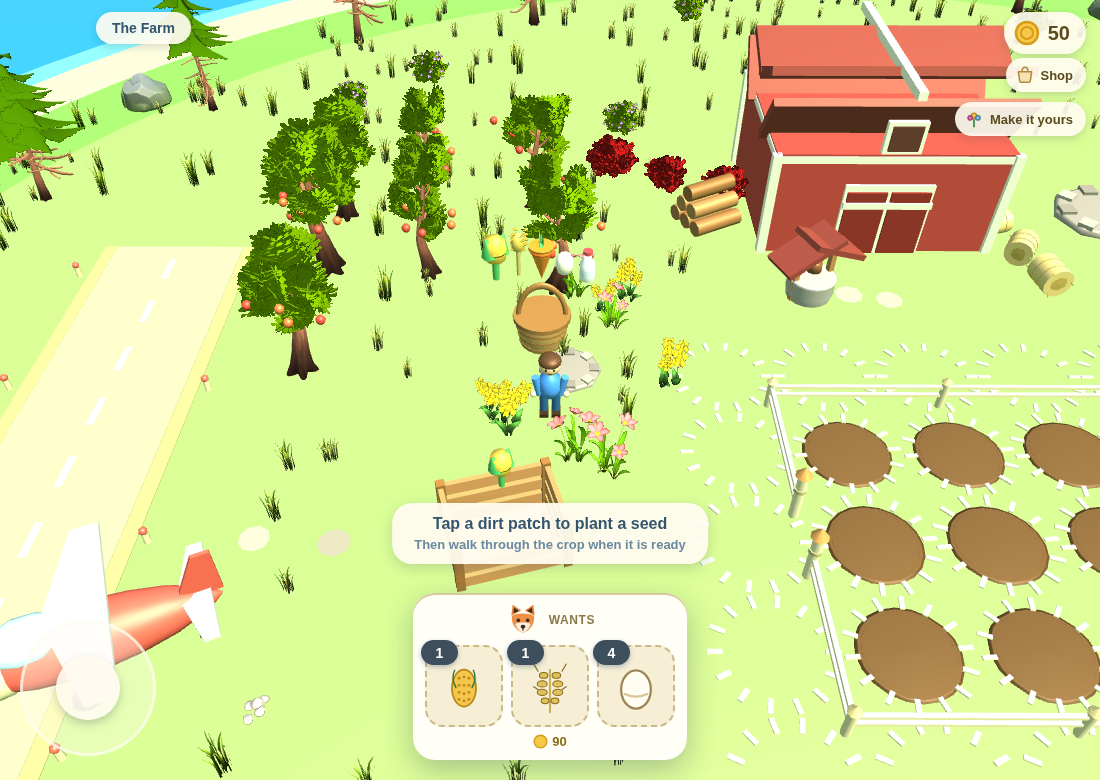
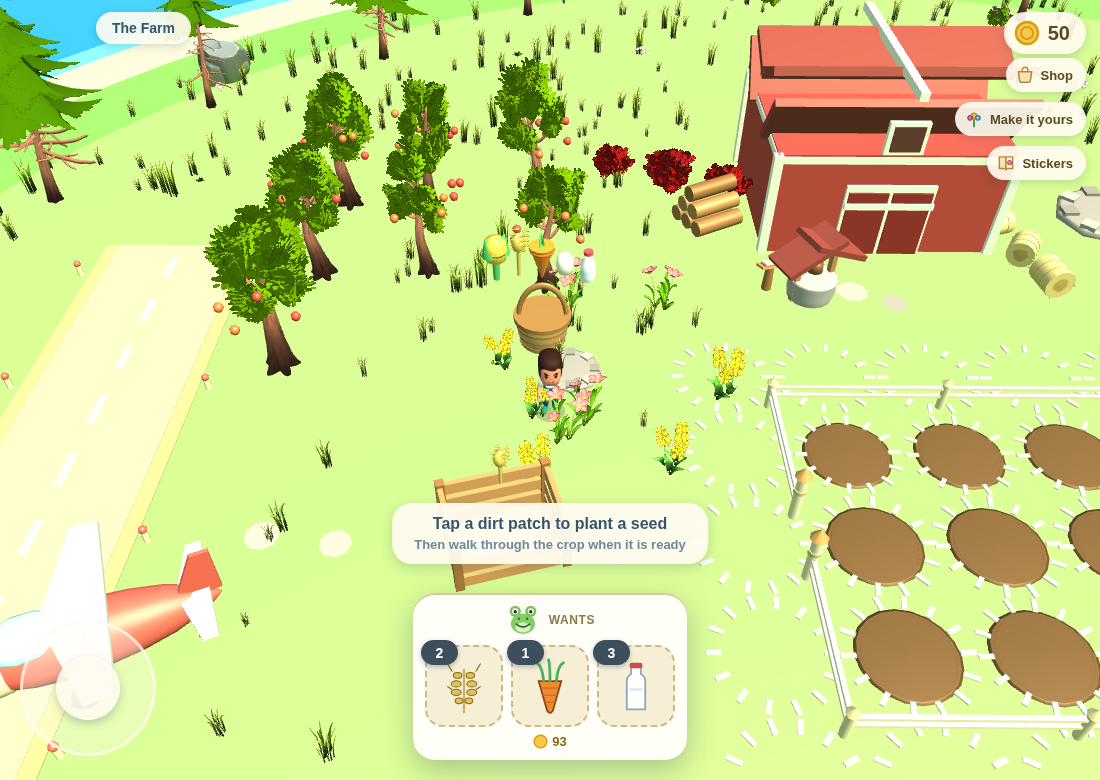
FM9: the girl the farm loads is not the girl skin that arrived
skin-farm-girl.png paints her head and neck a deep maroon while her own arms
and hands in the same atlas stay the kit's peach, so on the farm she read as a
dark red mask on a peach body. skin-farm-girl-v2.png is built from the farm
outfit's own skin with her hair composited over it, so every tone agrees and
the only difference between the two looks is the hair, which was the idea. The
file that arrived is untouched and one path away in KID_LOOKS. Every data-level
check passed with the maroon face; only the screenshot showed it.

Also from the picture gate: the sticker book's dots are a progress bar now
(filled first) rather than a second, noisier copy of the grid.

Claude-Session: https://claude.ai/code/session_01Qid5rb8VC1Bsr9e9rvNPaW

diff --git a/public/skyflyer-farm.html b/public/skyflyer-farm.html
@@ -6148,14 +6148,18 @@ var bookDotsEl=document.getElementById("bookDots");
 var bookCloseEl=document.getElementById("bookClose");
 function renderBook(){
   if(!bookRowEl) return;
-  var pages=stickerPages(), html="", dots="", i, got=0;
+  var pages=stickerPages(), html="", i, got=0;
   for(i=0;i<pages.length;i++){
     var P=pages[i];
     if(P.got) got++;
     html += '<div class="stamp'+(P.got?"":" off")+(BOOK_FRESH[P.id]?" new":"")+
             '" data-id="'+P.id+'">'+P.art+'</div>';
-    dots += '<i class="'+(P.got?"on":"")+'"></i>';
   }
+  // The dots are a PROGRESS BAR, not a second copy of the grid: the filled ones
+  // come first and grow along the row. Interleaved with the empties they read as
+  // noise, which is what the picture gate showed.
+  var dots="";
+  for(i=0;i<pages.length;i++) dots += '<i class="'+(i<got?"on":"")+'"></i>';
   bookRowEl.innerHTML=html;
   if(bookDotsEl) bookDotsEl.innerHTML=dots;
   BOOK_FRESH={};
@@ -6365,8 +6369,15 @@ var KID_CLIP_URLS={ idle:KID_DIR+"anim-idle.glb",
                     pick:KID_DIR+"anim-pickup.glb" };
 // The named slots. "who" is what the kid picked; the file behind it can change
 // without a line of this code changing.
+// THE GIRL SKIN IS NOT THE ONE THAT ARRIVED. The supplied `skin-farm-girl.png`
+// paints her face and neck a deep maroon while her own arms and hands stay the
+// peach the rest of the kit uses, so on the farm she read as a dark red mask
+// with black hair. `skin-farm-girl-v2.png` is built from the farm outfit's own
+// skin with HER HAIR composited over it, so the tones match everywhere and the
+// only difference between the two looks is the hair, which is the whole idea.
+// The original file is still in the repo, untouched, and this is one path away.
 var KID_LOOKS=[
-  { id:"girl", skin:KID_DIR+"skin-farm-girl.png" },
+  { id:"girl", skin:KID_DIR+"skin-farm-girl-v2.png" },
   { id:"boy",  skin:KID_DIR+"skin-farm-a.png" }
 ];
 function kidLookById(id){
@@ -7897,6 +7908,19 @@ window.FARM = {
   pickLook: pickLook,
   openLookPicker: openLookPicker,
   kidPick: kidPick,
+  // A close look at her, for the picture gate: park the camera at her shoulder
+  // and report what the material and the texture actually ARE, because "she is
+  // dark" and "she has no texture yet" look identical in a screenshot.
+  kidCloseUp: function(){
+    camera.position.set(kid.position.x+2.6, 2.4, kid.position.z+4.2);
+    camera.lookAt(kid.position.x, 1.3, kid.position.z);
+    WIDE=false;
+    var m=KID3.mat, t=m&&m.map;
+    return { hasMat:!!m, hasMap:!!t, mapImage:!!(t&&t.image),
+      w:(t&&t.image&&t.image.width)||0, encoding:(t&&t.encoding)||null,
+      color:m?m.color.getHexString():null, skinning:!!(m&&m.skinning),
+      lights:scene.children.filter(function(o){return o.isLight;}).length };
+  },
   customerCast: function(){ return { faces:CUSTOMERS.length, favourites:CUSTOMER_FAV.slice(),
     fav:order?order.fav:null, loved:order?!!order.loved:false }; },
 

diff --git a/README.md b/README.md
@@ -3502,7 +3502,7 @@ and never handle API keys / billing Ã¢ÂÂ surface those to the owner.**
 
 
 ## The Farm gets helpers, a cast, a sticker book and a real girl (September 8 2026)
-**Phase FM, cards FM8 and FM9.** FM7 gave her things to do; FM8 gives her people to do them with and FM9 gives her a face. THE ONE RULE EVERY HELPER OBEYS: they never take the fun part — harvesting, feeding and the crate whoosh stay hers — and every one of them is slower than she is (she runs 6.4, the dog 4.6, the farmhand 3.9, the tractor 4.4). THE FARMHAND (860) waters and does nothing else: he goes for the crop with the LONGEST left to wait, cannot see a ready one at all, tips his can for a second and a half and takes a third off the wait; the check that proves he never steals her fun watches her tower stay the same height while he works. THE TRACTOR (700) is the last of FM5's hollow boxes and is now the biggest thing on the farm: walk up to it, it asks the ONE question the farm already asks (the seed card, titled "Plant the whole field"), then it drives the rows dropping a seed in every empty patch, buying each seed as it goes and PARKING the moment she cannot afford the next. Her tap and its run now share one door, `plantPatch()`. THE DELIVERY TRUCK comes down the FM6 road on its own as a second, bigger customer: it only buys what the farm MAKES (bread, cheese, honey), pays FIVE times against the crate's three, floats what it wants the way the crate does, unloads on exactly the crate's rhythm, and drives off after a minute and a half whether or not it got anything, so it can never be missed or failed. SIX CUSTOMERS NOW (an owl, a frog and a hedgehog join the bear, fox and bunny) and each has ONE favourite: the slot for it wears a heart, it pays double, and the face jumps when it lands. No words anywhere in that. THE STICKER BOOK stands on a post by the barn door: one stamp per item carried, per animal living here and per helper who turned up, twenty-three today, and the ones she has not got are GREY — the one place in this farm where grey belongs, because here it can only mean "not yet". SHOW A GROWN-UP: one tap takes the whole island from above through the FM6 wide camera and puts it in My Stuff next to her drawings, through the gallery that already exists (`/api/save-art`) rather than a new table, plus an automatic one at each size of farm, never taken mid-whoosh. FM9 — A REAL MAIN CHARACTER: the kid was tube limbs and beads for eyes since FM1 and read as a blue blob; she is now Kenney's characterSmall (CC0) with idle, walk, run and a bend-down pick-up, at exactly the 2.5 units the old kid stood at so the stack still lands on her head and nothing else moved, with a soft contact shadow so she does not float. WHAT MAKES HER A PERSON IS ONE PNG — outfit, hair, face and skin in a single 1024 skin, wired as a NAMED SLOT and never a path, so a different outfit or a character per kid is a one-file change. Mike's call was "the kid picks", so the farm asks once with two pictures and remembers. THE CODE-BUILT KID IS STILL THERE, hidden in the same group: abort the model request and the farm opens exactly as it always did, and the harness proves it by aborting the request rather than reading the source. THREE THINGS THIS SESSION FOUND: `window.FARM.coins()` has been returning a DOM node since FM1 (no local `coins` variable, so it resolved to the `<span id="coins">` the browser puts on `window`); a second `customers:` key was silently overriding the new cast reader in the same object literal; and the harness runs at THREE frames a second on the software rasteriser with dt capped at 0.05, so game time there is about a sixth of real time — which is the whole explanation for a set of "flaky" checks, now fixed with a `tractorTick()` lever and waits on state. Character files, licence and loading notes at `public/models/skyflyer/character/` (408KB), registered in the shared asset library as eight `community_sprites` rows via `db/seed-farm-character.sql`, applied and verified in-session. `qa-skyflyer.mjs` 827 green, `qa-farm.mjs` grew FM8 and FM9 blocks, `qa-farm-shot.mjs` takes eight new pictures. Cache-bust `?v=fm7` -> `?v=fm8`. NOTE: two FM5/FM6 checks in `qa-farm.mjs` were already failing on `main` before this session and fail the same way on a clean checkout here; they are harness timing, not the farm, and are left honestly red for the next session.
+**Phase FM, cards FM8 and FM9.** FM7 gave her things to do; FM8 gives her people to do them with and FM9 gives her a face. THE ONE RULE EVERY HELPER OBEYS: they never take the fun part — harvesting, feeding and the crate whoosh stay hers — and every one of them is slower than she is (she runs 6.4, the dog 4.6, the farmhand 3.9, the tractor 4.4). THE FARMHAND (860) waters and does nothing else: he goes for the crop with the LONGEST left to wait, cannot see a ready one at all, tips his can for a second and a half and takes a third off the wait; the check that proves he never steals her fun watches her tower stay the same height while he works. THE TRACTOR (700) is the last of FM5's hollow boxes and is now the biggest thing on the farm: walk up to it, it asks the ONE question the farm already asks (the seed card, titled "Plant the whole field"), then it drives the rows dropping a seed in every empty patch, buying each seed as it goes and PARKING the moment she cannot afford the next. Her tap and its run now share one door, `plantPatch()`. THE DELIVERY TRUCK comes down the FM6 road on its own as a second, bigger customer: it only buys what the farm MAKES (bread, cheese, honey), pays FIVE times against the crate's three, floats what it wants the way the crate does, unloads on exactly the crate's rhythm, and drives off after a minute and a half whether or not it got anything, so it can never be missed or failed. SIX CUSTOMERS NOW (an owl, a frog and a hedgehog join the bear, fox and bunny) and each has ONE favourite: the slot for it wears a heart, it pays double, and the face jumps when it lands. No words anywhere in that. THE STICKER BOOK stands on a post by the barn door: one stamp per item carried, per animal living here and per helper who turned up, twenty-three today, and the ones she has not got are GREY — the one place in this farm where grey belongs, because here it can only mean "not yet". SHOW A GROWN-UP: one tap takes the whole island from above through the FM6 wide camera and puts it in My Stuff next to her drawings, through the gallery that already exists (`/api/save-art`) rather than a new table, plus an automatic one at each size of farm, never taken mid-whoosh. FM9 — A REAL MAIN CHARACTER: the kid was tube limbs and beads for eyes since FM1 and read as a blue blob; she is now Kenney's characterSmall (CC0) with idle, walk, run and a bend-down pick-up, at exactly the 2.5 units the old kid stood at so the stack still lands on her head and nothing else moved, with a soft contact shadow so she does not float. WHAT MAKES HER A PERSON IS ONE PNG — outfit, hair, face and skin in a single 1024 skin, wired as a NAMED SLOT and never a path, so a different outfit or a character per kid is a one-file change. Mike's call was "the kid picks", so the farm asks once with two pictures and remembers. THE GIRL SKIN THAT ARRIVED IS NOT THE ONE THE FARM LOADS: `skin-farm-girl.png` paints her head a deep maroon while her own arms stay peach, so she read as a dark red mask on a peach body; the farm loads `skin-farm-girl-v2.png`, built from the farm outfit's own skin with her hair composited over it, and the original is untouched and one path away. Every data check passed with the maroon face and only the screenshot showed it, which is the whole reason the picture gate exists. THE CODE-BUILT KID IS STILL THERE, hidden in the same group: abort the model request and the farm opens exactly as it always did, and the harness proves it by aborting the request rather than reading the source. THREE THINGS THIS SESSION FOUND: `window.FARM.coins()` has been returning a DOM node since FM1 (no local `coins` variable, so it resolved to the `<span id="coins">` the browser puts on `window`); a second `customers:` key was silently overriding the new cast reader in the same object literal; and the harness runs at THREE frames a second on the software rasteriser with dt capped at 0.05, so game time there is about a sixth of real time — which is the whole explanation for a set of "flaky" checks, now fixed with a `tractorTick()` lever and waits on state. Character files, licence and loading notes at `public/models/skyflyer/character/` (408KB), registered in the shared asset library as eight `community_sprites` rows via `db/seed-farm-character.sql`, applied and verified in-session. `qa-skyflyer.mjs` 827 green, `qa-farm.mjs` grew FM8 and FM9 blocks, `qa-farm-shot.mjs` takes eight new pictures. Cache-bust `?v=fm7` -> `?v=fm8`. NOTE: two FM5/FM6 checks in `qa-farm.mjs` were already failing on `main` before this session and fail the same way on a clean checkout here; they are harness timing, not the farm, and are left honestly red for the next session.
 
 ## The Farm gets more to do (September 8 2026)
 **Phase FM, card FM7 — more to do.** FM6 gave her an island; FM7 gives her reasons to walk around it. SEVEN SEEDS instead of three (strawberry, tomato and melon join corn, carrot, wheat and the pumpkin; slowest is the melon at fifty seconds, so nothing takes a minute, and a seed still costs what its crop is worth). THE MILL AND THE DAIRY fill the two pads FM6 reserved: two wheat make a loaf, two milk make cheese, and they are fed exactly the way a hen is fed, by walking past holding the thing. They WANT TWO, which is the only new rule in FM7 and it is taught with a two on the want card and nothing else. Bread and cheese are worth more than what went into them, so a trip through a building always pays. THE PIG eats carrots and gives truffles and is the third real library model (`farm-animals.glb` re-cut to Chicken + PekinDuck + Pig, still 126KB). THE HIVE IS NEVER HUNGRY — the bees see to themselves — and the honey comes quicker the more flower beds are standing near it, which nothing on screen says. THE WATERING CAN is fetched from the well once and is hers for good; tipping it over a growing crop takes a slice off what is left, and it cannot be used on an empty or a finished patch. EVERY ANIMAL GETS A NAME AND THE NAME IS A PICTURE: eight shapes, no text box anywhere in this farm and there never will be, and the badge only floats over an animal while she is near it. MAKE IT YOURS: five things to buy (flowers 30, hay 40, fence 25, tree 80, scarecrow 120), placed with two taps and no dragging, and never droppable in the field, a pen, the road or the pond. THE LADDER IS NO LONGER FULL OF EMPTY BOXES: FM5 shipped eight presents with six of them hollow, FM6 filled three and FM7 fills four more, so only the tractor still hops coins back out. THE PICTURE GATE EARNED ITS KEEP: the "Pick a name" card was rendering EMPTY and "Make it yours" was a button that did nothing, because both were wired to variables that had not been looked up yet — every data-level check passed the whole time and only the screenshot showed it. Also found: `PRODUCE_RECIPES.truffle` written before `PRODUCE_RECIPES` existed, and the melon's stripe colour tripping the "nothing costs real money" guard. AND A QA BUG WORTH KNOWING ABOUT: `page.waitForFunction(fn, {timeout: N})` passes the options as the page function's ARGUMENT and silently uses Playwright's thirty-second default — every wait in `qa-farm.mjs` had been doing that for months, which is the entire explanation for the dog and the mill "being flaky" when both worked perfectly. All forty-two are fixed and the file carries a comment saying why. `qa-farm.mjs` 237 green, `qa-skyflyer.mjs` 800 green, `node qa-all.mjs` green, seven new FM7 pictures. Cache-bust `?v=fm6b` -> `?v=fm7`.

diff --git a/SESSION-LOG.md b/SESSION-LOG.md
@@ -74,6 +74,16 @@ character per kid is a one-file change and no code at all. Mike's call was "the 
 so the farm asks once, with two pictures and no words beyond the title, and remembers the
 answer for good. Picking is a different skin on the same body, which is why it is instant.
 
+**The girl skin that arrived is not the one the farm loads.** `skin-farm-girl.png`
+paints her head and neck a deep maroon (135,34,26) while her own arms and hands in the
+same atlas stay the kit's peach (246,152,120), so on the farm she read as a dark red mask
+on a peach body. The farm now loads `skin-farm-girl-v2.png`, built here from the farm
+outfit's own skin with HER HAIR composited over it, so every tone agrees and the only
+difference between the two looks is the hair, which is the whole idea. The file that
+arrived is untouched and still in the repo, and going back to it is one path in the
+`KID_LOOKS` table. **This is exactly what the picture gate is for:** every data check
+passed with the maroon face, and only a screenshot showed it.
+
 **The code-built kid is still there,** hidden inside the same group. Block the model in the
 browser and the farm opens exactly as it always did, with the drawn kid walking on her code
 legs. That is checked by aborting the request in the harness, not by reading the source.

diff --git a/public/models/skyflyer/character/README.md b/public/models/skyflyer/character/README.md
@@ -46,3 +46,15 @@ hardcoded path, so a different outfit or a per-kid character is a one-file chang
 ## Known and accepted
 From the farm's high camera her head reads a little tall and she looks more like a small
 teenager than a five year old. That is the model's geometry, not the paint. Accepted for now.
+
+## Correction made when this went into the farm (FM9 build session)
+
+`skin-farm-girl.png` paints the head and neck a deep maroon (135,34,26) while the
+arms and hands in the same atlas stay the kit's peach (246,152,120). On the farm that
+reads as a dark red mask on a peach body rather than as a girl, so the farm now loads
+**`skin-farm-girl-v2.png`**: `skin-farm-a.png` with HER HAIR composited over it (the
+near-black hair pixels from the head region, plus the boy's fringe dyed to match), so
+every tone agrees and the only difference between the two looks is the hair.
+
+The original file is untouched and still here. Going back to it is one path in the
+`KID_LOOKS` table in `public/skyflyer-farm.html` — that is what the named slot is for.
